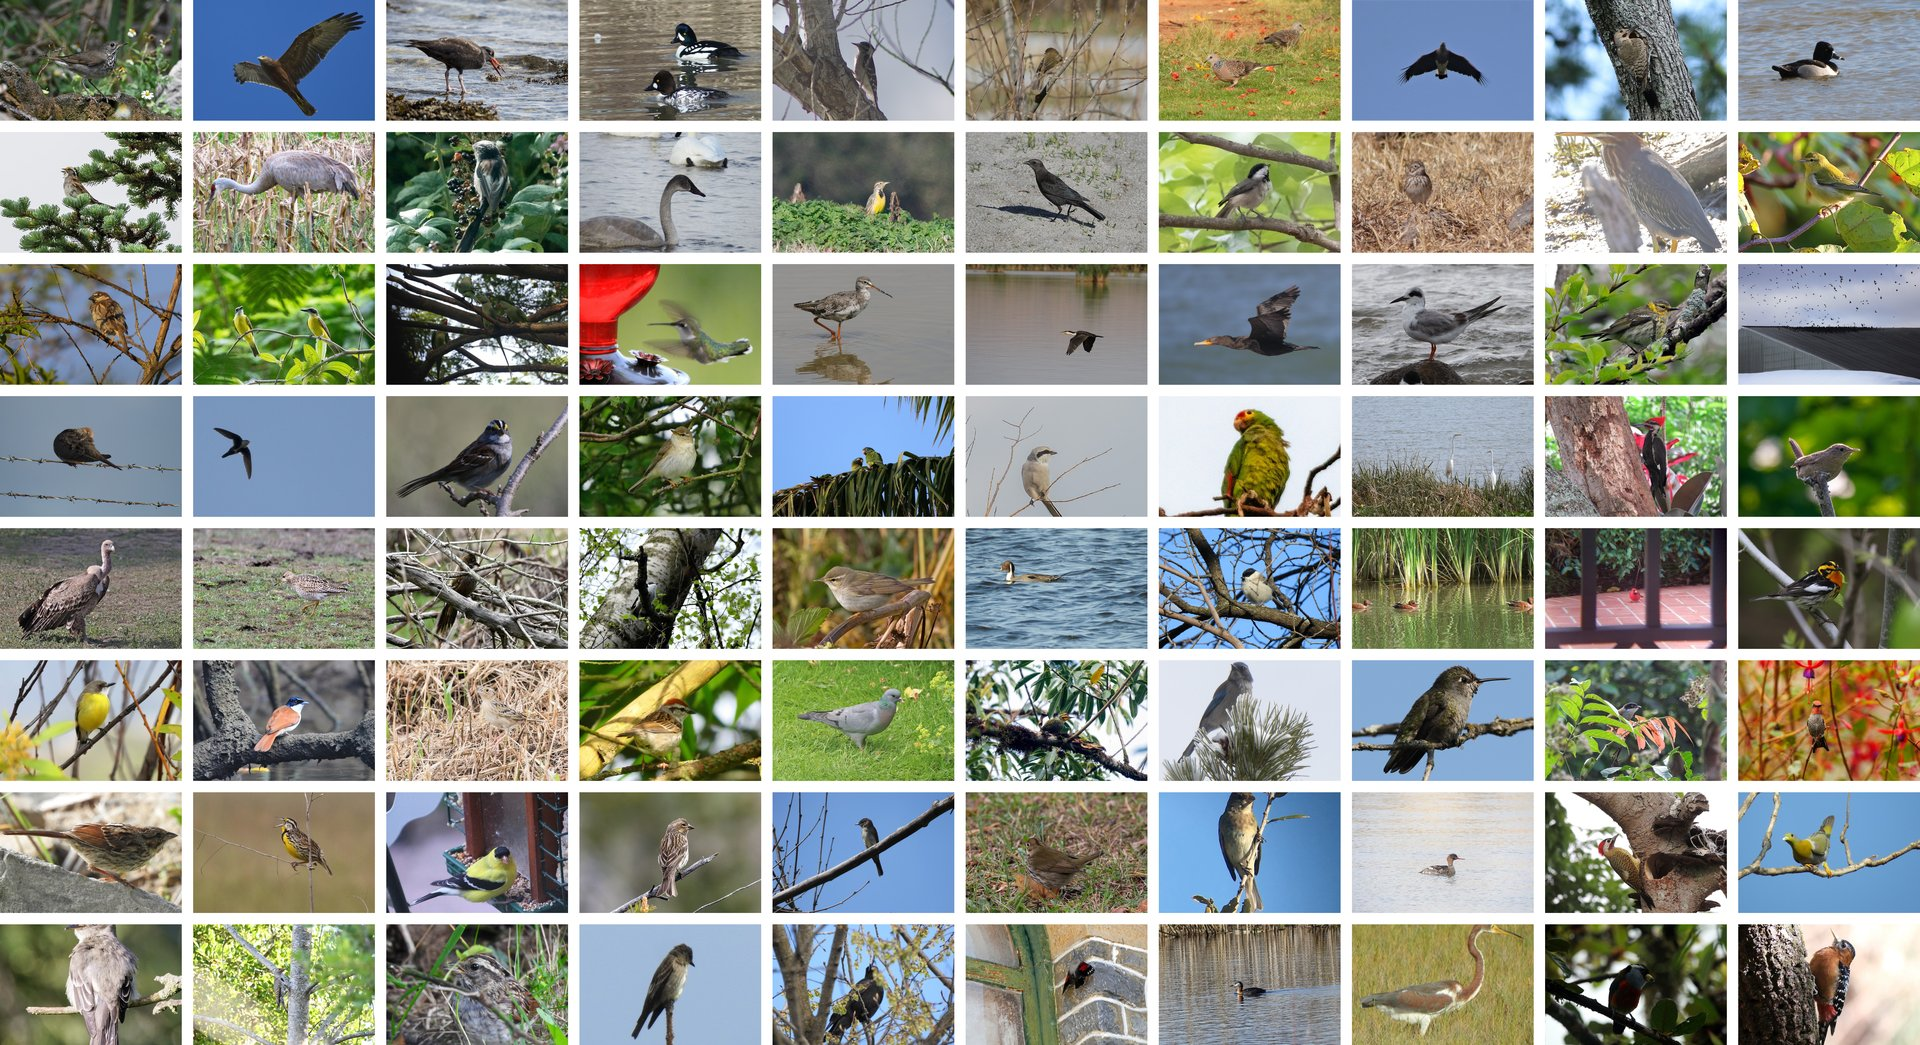
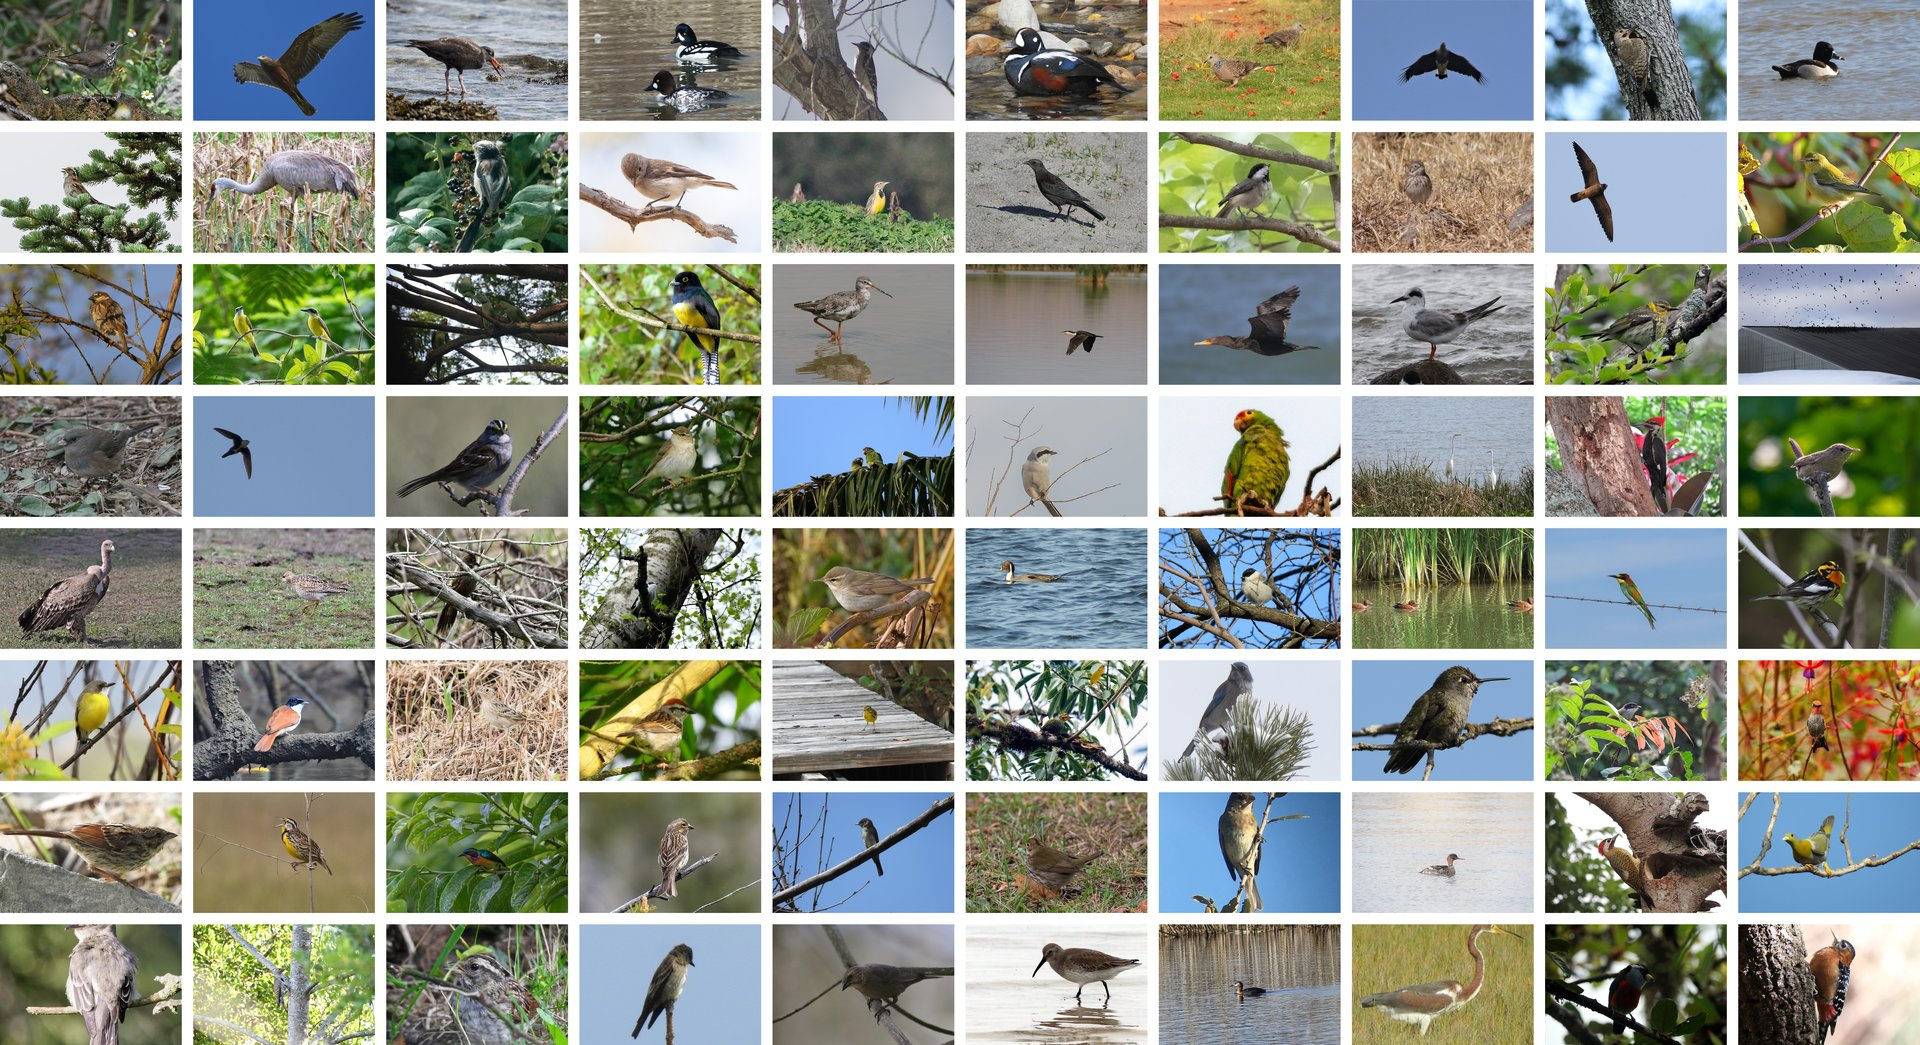
update backdrop image

diff --git a/app/page.js b/app/page.js
@@ -2,18 +2,36 @@
 
 import Image from "next/image";
 import * as Icons from "react-bootstrap-icons";
+import { useState } from "react";
 
 export default function Home() {
+  const [copied, setCopied] = useState(false);
+
+  const citationText = `@inproceedings{bossemeyercleverbirds,
+  title={CleverBirds: A Multiple-Choice Benchmark for Fine-grained Human Knowledge Tracing},
+  author={Bossemeyer, Leonie and Heinrich, Samuel and Van Horn, Grant and Mac Aodha, Oisin},
+  booktitle={The Thirty-ninth Annual Conference on Neural Information Processing Systems Datasets and Benchmarks Track}
+}`;
+
+  const handleCopyCitation = async () => {
+    try {
+      await navigator.clipboard.writeText(citationText);
+      setCopied(true);
+      setTimeout(() => setCopied(false), 2000);
+    } catch (err) {
+      console.error('Failed to copy citation:', err);
+    }
+  };
   // Bird image asset IDs used in the backdrop image
   const birdImageIds = [
-    '573697681', '428128071', '88531421', '211835021', '610451060', '547612131', '564023871', '116768801', '61383711', '316745031',
-    '246875981', '92749501', '79321301', '614371301', '289306081', '614584584', '586246051', '300360751', '608835731', '178092791',
-    '422231291', '612007611', '117594561', '27999251', '179573301', '611679955', '46165631', '551526071', '101165001', '134292171',
-    '168160141', '450270361', '26554101', '610427401', '89210001', '537341591', '165370941', '614031554', '586608881', '586481701',
-    '544108441', '235493731', '186111231', '560669831', '69662191', '406173031', '215047171', '327232121', '146864981', '160575501',
-    '119087321', '68277481', '102836251', '166040121', '167374331', '92172161', '220455911', '116049931', '142874561', '602284521',
-    '66677101', '230656561', '102726651', '585337501', '608937156', '284964471', '48680621', '191838061', '565126211', '160571121',
-    '589092841', '620875620', '113700001', '357819031', '558146061', '615966434', '221405381', '175066671', '606431381', '173863411'
+    '573697681', '428128071', '88531421', '211835021', '610451060', '72428651', '564023871', '116768801', '61383711', '316745031',
+    '246875981', '92749501', '174757801', '608961847', '289306081', '614584584', '586246051', '300360751', '612959309', '178092791',
+    '422231291', '612007611', '117594561', '87415241', '179573301', '611679955', '46165631', '551526071', '101165001', '134292171',
+    '125987801', '450270361', '26554101', '610427401', '89210001', '537341591', '165370941', '614031554', '586608881', '586481701',
+    '544108441', '235493731', '186111231', '560669831', '69662191', '406173031', '215047171', '327232121', '227464551', '160575501',
+    '119087321', '68277481', '102836251', '166040121', '513049811', '92172161', '220455911', '116049931', '142874561', '602284521',
+    '66677101', '230656561', '609684978', '585337501', '608937156', '284964471', '48680621', '191838061', '565126211', '160571121',
+    '589092841', '620875620', '113700001', '357819031', '151864601', '195952631', '221405381', '175066671', '606431381', '173863411'
   ];
 
   return (
@@ -26,6 +44,7 @@ export default function Home() {
             alt="Bird backdrop"
             fill
             className="object-cover opacity-80"
+            // style={{ filter: 'brightness(1.0-)' }}
             priority
             sizes="100vw"
           />
@@ -67,12 +86,17 @@ export default function Home() {
                   <span>Data</span>
                 </a>
                 <a
-                  className="bg-gray-100 rounded-xl px-4 sm:px-5 py-2 sm:py-2.5 text-slate-400 inline-flex items-center gap-2 text-sm sm:text-base md:text-lg font-medium shadow-sm cursor-not-allowed opacity-60"
+                  className="bg-gray-100 rounded-xl px-4 sm:px-5 py-1.5 sm:py-2 text-slate-400 inline-flex items-center gap-2 text-sm sm:text-base md:text-lg font-medium shadow-sm cursor-not-allowed opacity-60 relative overflow-visible"
                   href="#"
                   onClick={(e) => e.preventDefault()}
                 >
-                  <Icons.Github className="w-4 h-4 sm:w-5 sm:h-5" />
-                  <span>Code</span>
+                  <div className="flex flex-col items-center gap-0">
+                    <div className="flex items-center gap-2">
+                      <Icons.Github className="w-4 h-4 sm:w-5 sm:h-5" />
+                      <span>Code</span>
+                    </div>
+                    <span className="text-[9px] sm:text-[10px] leading-tight">in preparation</span>
+                  </div>
                 </a>
                 <a
                   className="bg-gray-200 hover:bg-gray-300 rounded-xl px-4 sm:px-5 py-2 sm:py-2.5 text-slate-700 inline-flex items-center gap-2 text-sm sm:text-base md:text-lg font-medium shadow-sm hover:shadow-md"
@@ -98,7 +122,7 @@ export default function Home() {
         <div className="max-w-[900px] px-4 sm:px-6 m-auto space-y-6">
           <div className="bg-white rounded-xl p-6 sm:p-8 shadow-sm">
             <div className="text-md font-regular text-slate-700 leading-relaxed mb-4">
-              Fine-grained visual recognition skills are vital to many expert domains, yet understanding how humans acquire such expertise remains an open challenge. We introduce <b>CleverBirds</b>, a large-scale benchmark for knowledge tracing in fine-grained visual recognition. The dataset contains 17.9 million multiple-choice questions from 40,144 participants across 10,779 bird species, with an average of 444 questions per participant.
+              Fine-grained visual recognition skills are vital to many expert domains, yet understanding how humans acquire such expertise remains an open challenge. We introduce <a href="https://huggingface.co/datasets/bossemel/clever_birds" target="_blank" rel="noopener noreferrer" className="text-slate-700 underline hover:text-slate-900"><b>CleverBirds</b></a>, a large-scale benchmark for knowledge tracing in fine-grained visual recognition. The dataset contains 17.9 million multiple-choice questions from 40,144 participants across 10,779 bird species, with an average of 444 questions per participant.
             </div>
 
             <div className="text-md font-regular text-slate-700 leading-relaxed">
@@ -108,7 +132,7 @@ export default function Home() {
 
           <div className="bg-white rounded-xl p-6 sm:p-8 shadow-sm">
             <div className="text-md font-regular text-slate-700 leading-relaxed mb-6">
-              We collected CleverBirds from the Photo and Sound Quiz feature of the eBird citizen science platform. In this quiz, participants are shown a bird image and asked to identify the species from a list of options. They receive immediate feedback on the correct answer after each response. Quiz responses were collected from March 2018 to October 2024.
+              We collected CleverBirds from the Photo and Sound Quiz feature of the <a href="https://ebird.org" target="_blank" rel="noopener noreferrer" className="text-slate-700 underline hover:text-slate-900">eBird</a> citizen science platform. In this quiz, participants are shown a bird image and asked to identify the species from a list of options. They receive immediate feedback on the correct answer after each response. Quiz responses were collected from March 2018 to October 2024.
             </div>
 
             <div className="mt-6">
@@ -240,24 +264,37 @@ export default function Home() {
               If you found CleverBirds useful, please consider citing our work:
             </div>
 
-            <pre className="mt-4 bg-gray-100 p-3 sm:p-4 rounded-lg text-xs sm:text-sm overflow-x-auto">
-              @inproceedings{"{"}bossemeyercleverbirds,
-              <br />
-              &nbsp;&nbsp;title={"{"}CleverBirds: A Multiple-Choice Benchmark for Fine-grained Human Knowledge Tracing{"}"},
-              <br />
-              &nbsp;&nbsp;author={"{"}Bossemeyer, Leonie and Heinrich, Samuel and Van Horn, Grant and Mac Aodha, Oisin{"}"},
-              <br />
-              &nbsp;&nbsp;booktitle={"{"}The Thirty-ninth Annual Conference on Neural Information Processing Systems Datasets and Benchmarks Track{"}"}
-              <br />
-              {"}"}
-            </pre>
+            <div className="relative mt-4">
+              <pre className="bg-gray-100 p-3 sm:p-4 rounded-lg text-xs sm:text-sm overflow-x-auto pr-9 sm:pr-11">
+                @inproceedings{"{"}bossemeyercleverbirds,
+                <br />
+                &nbsp;&nbsp;title={"{"}CleverBirds: A Multiple-Choice Benchmark for Fine-grained Human Knowledge Tracing{"}"},
+                <br />
+                &nbsp;&nbsp;author={"{"}Bossemeyer, Leonie and Heinrich, Samuel and Van Horn, Grant and Mac Aodha, Oisin{"}"},
+                <br />
+                &nbsp;&nbsp;booktitle={"{"}The Thirty-ninth Annual Conference on Neural Information Processing Systems Datasets and Benchmarks Track{"}"}
+                <br />
+                {"}"}
+              </pre>
+              <button
+                onClick={handleCopyCitation}
+                className="absolute top-2 right-2 sm:top-2.5 sm:right-2.5 p-1.5 sm:p-2 rounded-md bg-transparent hover:bg-gray-200/60 transition-all duration-150"
+                title={copied ? "Copied!" : "Copy citation"}
+              >
+                {copied ? (
+                  <Icons.Check2 className="w-3.5 h-3.5 sm:w-4 sm:h-4 text-gray-600" />
+                ) : (
+                  <Icons.Clipboard className="w-3.5 h-3.5 sm:w-4 sm:h-4 text-gray-500 hover:text-gray-700 transition-colors" />
+                )}
+              </button>
+            </div>
           </div>
 
           <div className="mt-6 pt-4 border-t border-slate-200">
             <div className="text-[10px] sm:text-xs text-slate-500">
               {/* <div className="mb-1 text-xs font-medium text-slate-600">Media Credits</div> */}
               <div className="text-[10px] sm:text-xs block leading-relaxed">
-                We used the following recordings from Cornell Lab of Ornithology | Macaulay Library:{' '}
+                We used the following recordings from <a href="https://www.birds.cornell.edu/" target="_blank" rel="noopener noreferrer" className="underline">Cornell Lab of Ornithology</a> | <a href="https://macaulaylibrary.org/" target="_blank" rel="noopener noreferrer" className="underline">Macaulay Library</a>:{' '}
                 {[
                   ...birdImageIds.map((id) => `ML${id}`),
                   'ML614845753', 'ML624914011', 'ML624836085',

diff --git a/update_backdrop.py b/update_backdrop.py
@@ -1,0 +1,205 @@
+#!/usr/bin/env python3
+"""
+Automated script to update bird backdrop images.
+This script:
+1. Checks for missing images in the bird_grid directory
+2. Downloads random replacements from the provided JSON file
+3. Updates create_backdrop.py and app/page.js with new IDs
+4. Regenerates the backdrop image
+
+Note: The ML-reference list in app/page.js is automatically updated since it's
+generated from the birdImageIds array using birdImageIds.map((id) => `ML${id}`)
+"""
+
+import json
+import random
+import re
+import sys
+import subprocess
+from pathlib import Path
+import urllib.request
+import urllib.error
+import ssl
+
+# Create SSL context that doesn't verify certificates (for Macaulay Library CDN)
+ssl_context = ssl.create_default_context()
+ssl_context.check_hostname = False
+ssl_context.verify_mode = ssl.CERT_NONE
+
+
+def download_bird_image(asset_id: str, output_dir: Path, size: int = 1200) -> bool:
+    """Download a bird image from Macaulay Library CDN."""
+    url = f"https://cdn.download.ams.birds.cornell.edu/api/v1/asset/{asset_id}/{size}"
+    output_path = output_dir / f"{asset_id}.jpg"
+    
+    if output_path.exists():
+        print(f"  ✓ Image already exists: {output_path.name}")
+        return True
+    
+    try:
+        print(f"  Downloading {asset_id}...", end=" ", flush=True)
+        with urllib.request.urlopen(url, context=ssl_context) as response:
+            with open(output_path, 'wb') as f:
+                f.write(response.read())
+        print(f"✓")
+        return True
+    except urllib.error.HTTPError as e:
+        print(f"✗ Failed (HTTP {e.code})")
+        return False
+    except Exception as e:
+        print(f"✗ Failed: {e}")
+        return False
+
+
+def get_bird_image_ids_from_file(file_path: Path) -> list:
+    """Extract bird image IDs from create_backdrop.py or app/page.js."""
+    content = file_path.read_text()
+    
+    # Extract all IDs from the file (they're in quotes)
+    ids = re.findall(r"['\"](\d{8,9})['\"]", content)
+    
+    # Filter to get only the bird image IDs (they should be in a specific section)
+    # For create_backdrop.py, look for bird_image_ids = [
+    # For app/page.js, look for birdImageIds = [
+    if 'bird_image_ids' in content or 'birdImageIds' in content:
+        # Find the array section
+        lines = content.split('\n')
+        ids = []
+        in_array = False
+        
+        for line in lines:
+            if 'bird_image_ids' in line or 'birdImageIds' in line:
+                in_array = True
+            if in_array:
+                # Extract IDs from this line
+                matches = re.findall(r"['\"](\d{8,9})['\"]", line)
+                ids.extend(matches)
+                # Stop when we hit the closing bracket
+                if ']' in line and ids:
+                    break
+    
+    return ids
+
+
+def update_file_with_new_ids(file_path: Path, old_id: str, new_id: str) -> bool:
+    """Replace an old ID with a new ID in a file."""
+    content = file_path.read_text()
+    
+    # Replace the old ID with the new ID (ensuring we match whole IDs, not parts)
+    # Use word boundaries or quotes to ensure exact match
+    pattern = f"(['\"]?){re.escape(old_id)}(['\"]?)"
+    replacement = f"\\g<1>{new_id}\\g<2>"
+    
+    new_content = re.sub(pattern, replacement, content)
+    
+    if new_content != content:
+        file_path.write_text(new_content)
+        return True
+    return False
+
+
+def main():
+    if len(sys.argv) < 2:
+        print("Usage: python update_backdrop.py <path_to_json_file>")
+        print("Example: python update_backdrop.py /path/to/new_asset_id.json")
+        sys.exit(1)
+    
+    json_path = Path(sys.argv[1])
+    if not json_path.exists():
+        print(f"Error: JSON file not found: {json_path}")
+        sys.exit(1)
+    
+    # Get script directory
+    script_dir = Path(__file__).parent
+    bird_grid_dir = script_dir / 'public' / 'images' / 'bird_grid'
+    create_backdrop_file = script_dir / 'create_backdrop.py'
+    app_page_file = script_dir / 'app' / 'page.js'
+    
+    print("Loading JSON file...")
+    try:
+        with open(json_path, 'r') as f:
+            json_data = json.load(f)
+        available_ids = list(json_data.keys())
+        print(f"  ✓ Loaded {len(available_ids)} asset IDs from JSON")
+    except Exception as e:
+        print(f"  ✗ Error loading JSON: {e}")
+        sys.exit(1)
+    
+    # Get expected IDs from create_backdrop.py
+    print("\nChecking for missing images...")
+    expected_ids = get_bird_image_ids_from_file(create_backdrop_file)
+    
+    if len(expected_ids) != 80:
+        print(f"  Warning: Expected 80 IDs, found {len(expected_ids)}")
+    
+    # Find missing images
+    missing = []
+    for img_id in expected_ids:
+        if not (bird_grid_dir / f'{img_id}.jpg').exists():
+            missing.append(img_id)
+    
+    if not missing:
+        print("  ✓ All images are present!")
+        print("\nRegenerating backdrop...")
+        subprocess.run([sys.executable, str(create_backdrop_file)], check=True)
+        return
+    
+    print(f"  Found {len(missing)} missing image(s): {', '.join(missing)}")
+    
+    # Get random replacements
+    print("\nSelecting random replacements...")
+    replacements = {}
+    for old_id in missing:
+        # Make sure we don't select an ID that's already in use
+        available = [id for id in available_ids if id not in expected_ids]
+        if not available:
+            available = available_ids  # Fallback if all are used
+        
+        new_id = random.choice(available)
+        replacements[old_id] = new_id
+        print(f"  {old_id} -> {new_id}")
+    
+    # Download replacement images
+    print("\nDownloading replacement images...")
+    bird_grid_dir.mkdir(parents=True, exist_ok=True)
+    for old_id, new_id in replacements.items():
+        if not download_bird_image(new_id, bird_grid_dir):
+            print(f"  ✗ Failed to download {new_id}, skipping replacement")
+            del replacements[old_id]
+    
+    if not replacements:
+        print("\n✗ No replacements were successfully downloaded. Exiting.")
+        sys.exit(1)
+    
+    # Update files
+    print("\nUpdating files...")
+    files_updated = []
+    
+    for old_id, new_id in replacements.items():
+        # Update create_backdrop.py
+        if update_file_with_new_ids(create_backdrop_file, old_id, new_id):
+            print(f"  ✓ Updated create_backdrop.py: {old_id} -> {new_id}")
+            files_updated.append(create_backdrop_file)
+        
+        # Update app/page.js
+        if update_file_with_new_ids(app_page_file, old_id, new_id):
+            print(f"  ✓ Updated app/page.js: {old_id} -> {new_id}")
+            files_updated.append(app_page_file)
+    
+    if not files_updated:
+        print("  ✗ No files were updated")
+        sys.exit(1)
+    
+    # Regenerate backdrop
+    print("\nRegenerating backdrop...")
+    try:
+        subprocess.run([sys.executable, str(create_backdrop_file)], check=True)
+        print("\n✓ All done!")
+    except subprocess.CalledProcessError as e:
+        print(f"\n✗ Error regenerating backdrop: {e}")
+        sys.exit(1)
+
+
+if __name__ == '__main__':
+    main()
+

diff --git a/create_backdrop.py b/create_backdrop.py
@@ -10,14 +10,14 @@ from pathlib import Path
 
 # Bird image asset IDs in order (8 rows × 10 columns)
 bird_image_ids = [
-    '573697681', '428128071', '88531421', '211835021', '610451060', '547612131', '564023871', '116768801', '61383711', '316745031',
-    '246875981', '92749501', '174757801', '614371301', '289306081', '614584584', '586246051', '300360751', '608835731', '178092791',
-    '422231291', '612007611', '117594561', '27999251', '179573301', '611679955', '46165631', '551526071', '101165001', '134292171',
-    '168160141', '450270361', '26554101', '610427401', '89210001', '537341591', '165370941', '614031554', '586608881', '586481701',
-    '544108441', '235493731', '186111231', '560669831', '69662191', '406173031', '215047171', '327232121', '146864981', '160575501',
-    '119087321', '68277481', '102836251', '166040121', '167374331', '92172161', '220455911', '116049931', '142874561', '602284521',
-    '66677101', '230656561', '102726651', '585337501', '608937156', '284964471', '48680621', '191838061', '565126211', '160571121',
-    '589092841', '620875620', '113700001', '357819031', '558146061', '615966434', '221405381', '175066671', '606431381', '173863411'
+    '573697681', '428128071', '88531421', '211835021', '610451060', '72428651', '564023871', '116768801', '61383711', '316745031',
+    '246875981', '92749501', '174757801', '608961847', '289306081', '614584584', '586246051', '300360751', '612959309', '178092791',
+    '422231291', '612007611', '117594561', '87415241', '179573301', '611679955', '46165631', '551526071', '101165001', '134292171',
+    '125987801', '450270361', '26554101', '610427401', '89210001', '537341591', '165370941', '614031554', '586608881', '586481701',
+    '544108441', '235493731', '186111231', '560669831', '69662191', '406173031', '215047171', '327232121', '227464551', '160575501',
+    '119087321', '68277481', '102836251', '166040121', '513049811', '92172161', '220455911', '116049931', '142874561', '602284521',
+    '66677101', '230656561', '609684978', '585337501', '608937156', '284964471', '48680621', '191838061', '565126211', '160571121',
+    '589092841', '620875620', '113700001', '357819031', '151864601', '195952631', '221405381', '175066671', '606431381', '173863411'
 ]
 
 def create_backdrop():
